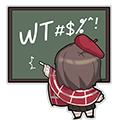
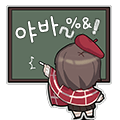
Update majsoul dccons

diff --git a/lib/dccon_list.js b/lib/dccon_list.js
@@ -81,7 +81,7 @@ dcConsData = [
     { name: "작혼/오사무짜증.png", keywords: ["오사무짜증"], tags: ["작혼"] },
     { name: "작혼/오사무충격.png", keywords: ["오사무충격"], tags: ["작혼"] },
     { name: "작혼/유이따봉.png", keywords: ["유이따봉"], tags: ["작혼"] },
-    { name: "작혼/유이신고.png", keywords: ["유이신고", "유이경찰", "유이FBI", "신고"], tags: ["작혼"] },
+    { name: "작혼/유이신고.png", keywords: ["유이신고", "유이경찰", "유이FBI", "신고", "경찰"], tags: ["작혼"] },
     { name: "작혼/유이역따봉.png", keywords: ["유이역따봉"], tags: ["작혼"] },
     { name: "작혼/유이째릿.png", keywords: ["유이찌릿", "유이째릿"], tags: ["작혼"] },
     { name: "작혼/죠셉뿌듯.png", keywords: ["죠셉뿌듯"], tags: ["작혼"] },
@@ -100,7 +100,7 @@ dcConsData = [
     { name: "작혼/카나띠용.png", keywords: ["카나띠용"], tags: ["작혼"] },
     { name: "작혼/카나스위치.png", keywords: ["카나스위치"], tags: ["작혼"] },
     { name: "작혼/카나흑흑.png", keywords: ["카나흑흑"], tags: ["작혼"] },
-    { name: "작혼/카비1등.png", keywords: ["카비1등", "1등"], tags: ["작혼"] },
+    { name: "작혼/카비1판.png", keywords: ["카비1판", "1판", "단한판", "한판"], tags: ["작혼"] },
     { name: "작혼/카비놀람.png", keywords: ["카비놀람"], tags: ["작혼"] },
     { name: "작혼/카비부끄.png", keywords: ["카비부끄"], tags: ["작혼"] },
     { name: "작혼/카비히히.png", keywords: ["카비히히"], tags: ["작혼"] },
